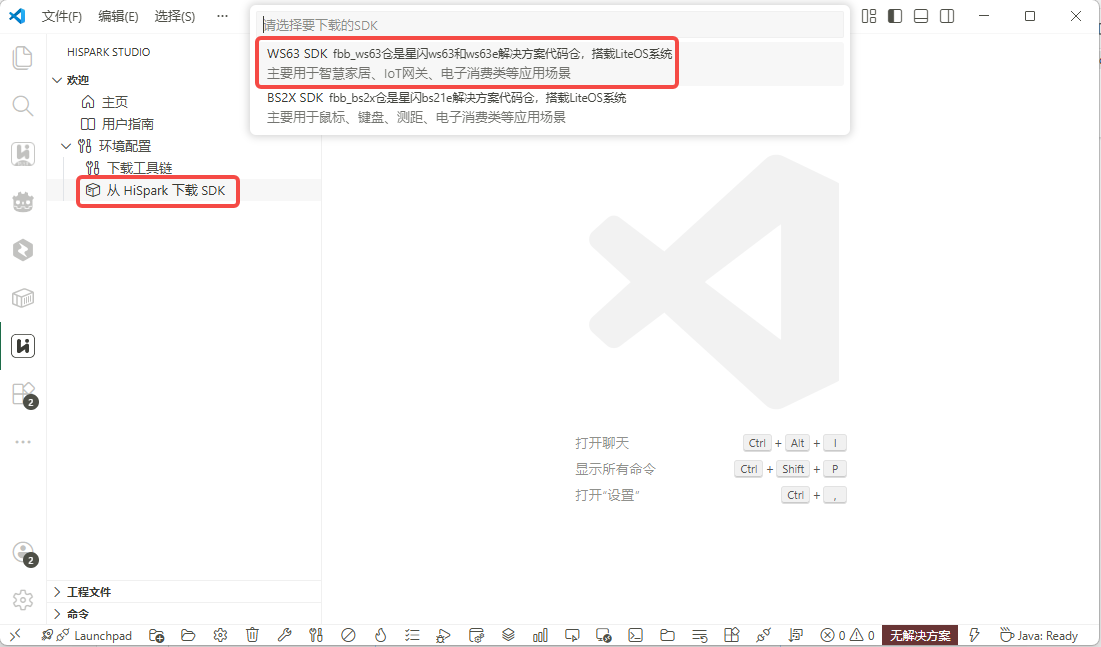
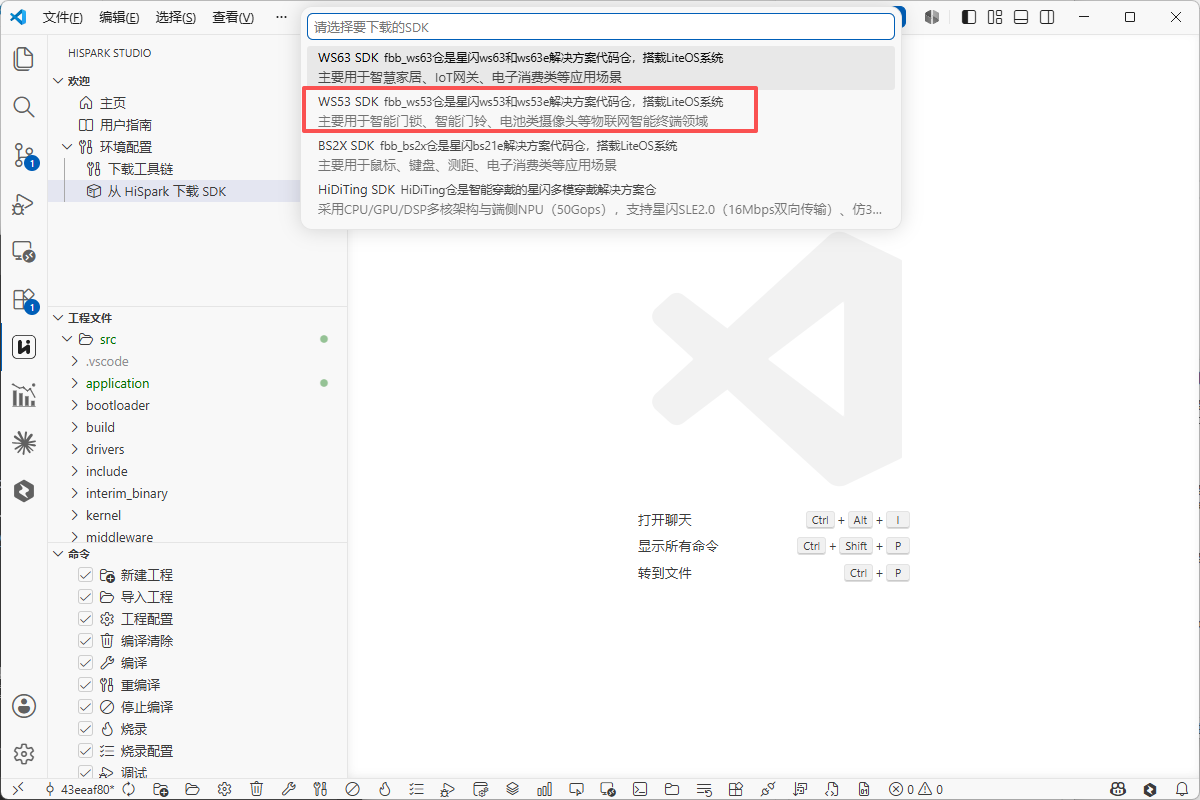
部分ws63相关图片更新为ws53的图片

Changed region(s): [[0.0, 0.0, 1.0, 1.0], [0.6485, 0.6491, 0.772, 0.7728], [0.525, 0.6182, 0.5867, 0.7728]]

diff --git a/docs/zh-CN/get-started/quick-start.md b/docs/zh-CN/get-started/quick-start.md
@@ -69,7 +69,7 @@
 
     - **传输方式**：选择 `serial`（串口烧录）
     - **烧写文件**：默认即可（当前工程目录下的 `output\ws53\fwpkg\ws53-liteos-app\ws53-liteos-app_all.fwpkg`）
-    - **端口选择**：在设备管理器中查看 COM 口（通常为 CH340 设备）, 如 `COM4`
+    - **端口选择**：在设备管理器中查看 COM 口, 如 `COM5`
     - **波特率**：选择 `921600`
 
 ### 开始烧录
